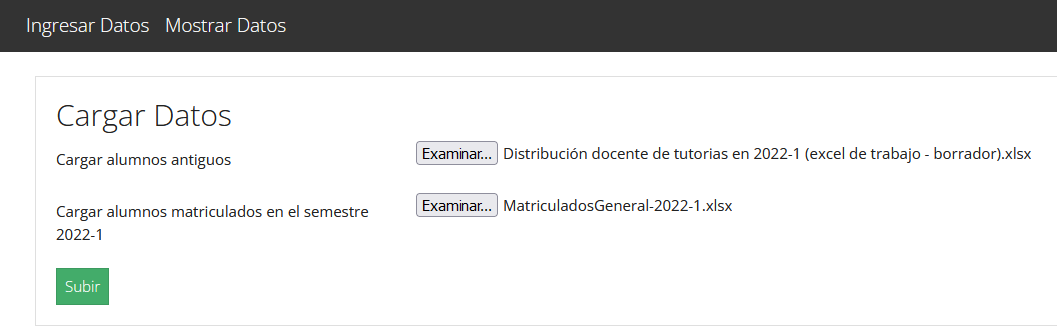
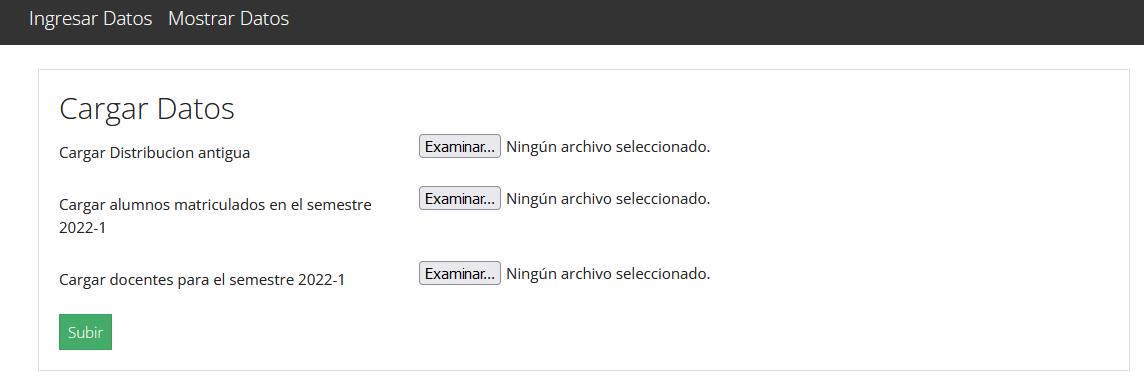
files

diff --git a/index.php b/index.php
@@ -9,7 +9,7 @@ include('includes/header.php');
       <form enctype="multipart/form-data" method="POST" action="CargarArchivo.php" role="form"> 
         <h2>Cargar Datos</h2>
         <div class="form-group row">
-          <label for="upload" class="col-sm-4 col-form-label">Cargar alumnos antiguos</label> 
+          <label for="upload" class="col-sm-4 col-form-label">Cargar Distribucion antigua</label> 
           <div class="col-sm-8">
             <input type="file" name="alumnos_antiguos" accept=".xls,.xlsx,.csv"> 
           </div>

diff --git a/README.md b/README.md
@@ -1,4 +1,4 @@
- # Primer Examen Parcial de Desarrollo de Software I
+ # Distribucion de Tutorias
 
 > Carga archivos csv para que despues muestrar los alumnos que no seran turorados en el 2022-1 y los alumnos nuevos para tutoria
 
@@ -19,4 +19,4 @@
 ### Alumnos que no seran tutorados en 2022-1
 ![ScreenShot](https://github.com/wildkite/Distribucion-Tutoria/blob/main/screenshots/no_matriculados.png)
 ### Alumnos nuevos para tutoria
-![ScreenShot](https://github.com/wildkite/Distribucion-Tutoria/blob/main/screenshots/nuevos_alumnos.png)
+![ScreenShot](https://github.com/wildkite/Distribucion-Tutoria/blob/main/screenshots/nueva_distribucion.png)
